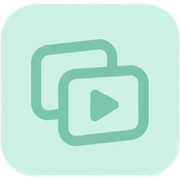
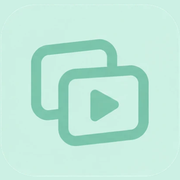
fix(web): address review findings in the Emergence restyle
- Scroll a new error into view and show "Needs attention" in the
  masthead, so failed actions far down the single column are visible.
- Film: hide the Play overlay and show native controls when the video
  cannot be decoded; start playback at 0 despite the poster fragment;
  keep keyboard focus on the player after Play.
- Masthead: three-column grid (nav, centred project label, state and
  logo) so the label no longer overlaps the nav at 1180-1366px.
- Let landscape films run full width on phones; stronger scrim and an
  inset focus ring for the Play button; field borders at 3:1 against
  the page; reduced motion also covers pseudo-elements; spaces between
  kicker labels and text for screen readers.
- Opaque, edge-to-edge Apple touch icon.
- Docs: anchor for the Web design section and a pointer from the team
  visual spec to the approved palette.

Claude-Session: https://claude.ai/code/session_01SGkcHMc6j9QZ8o8jhosP5c

Changed region(s): [[0.0, 0.0, 1.0, 1.0]]

diff --git a/frontend/src/main.tsx b/frontend/src/main.tsx
@@ -26,16 +26,24 @@ async function request<T>(url: string, options?: RequestInit): Promise<T> {
 function Film({ src, onError }: { src: string; onError: () => void }) {
   const video = useRef<HTMLVideoElement>(null);
   const [started, setStarted] = useState(false);
+  const [failed, setFailed] = useState(false);
+
+  // Keep keyboard focus on the player once the overlay button disappears.
+  useEffect(() => { if (started) video.current?.focus({ preventScroll: true }); }, [started]);
 
   function play() {
     setStarted(true);
-    video.current?.play().catch(() => undefined);
+    const element = video.current;
+    if (!element) return;
+    element.currentTime = 0;
+    element.play().catch(() => undefined);
   }
 
   // The media fragment asks Safari to paint the first frame as a poster; the request itself is unchanged.
   return <div className={'film' + (started ? ' is-playing' : '')}>
-    <video ref={video} src={src + '#t=0.1'} preload="metadata" playsInline controls={started} onError={onError}/>
-    {!started && <button className="play" onClick={play} aria-label="Play your film">
+    <video ref={video} src={src + '#t=0.1'} preload="metadata" playsInline controls={started || failed} aria-label="Your film"
+      onError={() => { setFailed(true); onError(); }}/>
+    {!started && !failed && <button className="play" onClick={play} aria-label="Play your film">
       <span className="play-ring" aria-hidden="true"><svg viewBox="0 0 24 24"><path d="M9 6.5v11l8.5-5.5z"/></svg></span>
       <span className="play-label">Play</span>
     </button>}
@@ -59,6 +67,7 @@ function App() {
   const [dragging, setDragging] = useState(false);
   const fileInput = useRef<HTMLInputElement>(null);
   const progress = useRef<HTMLSpanElement>(null);
+  const alertBox = useRef<HTMLDivElement>(null);
   const active = project?.job?.status === 'queued' || project?.job?.status === 'running';
 
   useEffect(() => {
@@ -81,6 +90,9 @@ function App() {
     }, 1500);
     return () => { cancelled = true; window.clearInterval(timer); };
   }, [project?.name, active]);
+
+  // Actions sit far below the status area in the single-column layout, so show a new error where it is.
+  useEffect(() => { if (error) alertBox.current?.scrollIntoView({ block: 'center' }); }, [error]);
 
   // Reading progress, as in the masthead of a long-form feature.
   useEffect(() => {
@@ -139,17 +151,20 @@ function App() {
 
   const footage = project ? Math.round(project.clips.reduce((sum, clip) => sum + clip.duration, 0)) : 0;
   const version = project?.latest?.cut.replace('cut_', 'Version ') || null;
-  const state = active ? 'Working' : project?.job?.status === 'failed' ? 'Needs attention' : project?.latest ? 'Film ready' : project ? 'Clips imported' : 'Ready';
+  const failed = !!error || project?.job?.status === 'failed';
+  const state = active ? 'Working' : failed ? 'Needs attention' : project?.latest ? 'Film ready' : project ? 'Clips imported' : 'Ready';
 
   return <>
     <header className="masthead">
-      <a className="brand" href="/" aria-label="Vlogii home"><img src="/brand/vlogii-logo.png" alt="vlogii" width="118" height="32"/></a>
       <nav className="sections" aria-label="Sections">
         <a href="#film">Film</a><a href="#moments">Moments</a><a href="#direction">Direction</a>
         {project?.latest && <><span className="divider" aria-hidden="true"/><a href="#edit">Make it yours</a></>}
       </nav>
-      <p className="feature">{project ? <><span className="kicker">Project</span><b>{project.name}</b>{version && <span className="feature-version"> | {version}</span>}</> : <span className="kicker">Local studio</span>}</p>
-      <p className={'state' + (active ? ' working' : '') + (project?.job?.status === 'failed' ? ' failed' : '')}><span className="state-dot" aria-hidden="true"/>{state}</p>
+      <p className="feature">{project ? <><span className="kicker">Project</span>{' '}<b>{project.name}</b>{version && <span className="feature-version"> | {version}</span>}</> : <span className="kicker">Local studio</span>}</p>
+      <div className="mast-end">
+        <p className={'state' + (active ? ' working' : '') + (failed ? ' failed' : '')}><span className="state-dot" aria-hidden="true"/>{state}</p>
+        <a className="brand" href="/" aria-label="Vlogii home"><img src="/brand/vlogii-logo.png" alt="vlogii" width="118" height="32"/></a>
+      </div>
       <span className="read" ref={progress} aria-hidden="true"/>
     </header>
 
@@ -171,13 +186,13 @@ function App() {
           </div>}
       </section>
       <div className="caption">
-        <p><span className="kicker">{version || 'A clean slate'}</span>{project?.latest ? `${project.duration_seconds?.toFixed(1) || '—'} seconds · Ready for a closer look.` : 'A few moments. A little meaning.'}</p>
+        <p><span className="kicker">{version || 'A clean slate'}</span>{' '}{project?.latest ? `${project.duration_seconds?.toFixed(1) || '—'} seconds · Ready for a closer look.` : 'A few moments. A little meaning.'}</p>
         {project?.video_url && <a className="caps-link" href={project.video_url + '?download=true'}>Download MP4 ↓</a>}
       </div>
 
       <div className="column">
         <p aria-live="polite" className={'status' + (active ? ' working' : '')}><span className="state-dot" aria-hidden="true"/>{project?.job?.message || 'Import your clips to begin.'}</p>
-        {(error || project?.job?.error) && <div role="alert" className="alert"><span className="kicker">Needs attention</span>{error || project?.job?.error}</div>}
+        {(error || project?.job?.error) && <div role="alert" ref={alertBox} className="alert"><span className="kicker">Needs attention</span>{error || project?.job?.error}</div>}
 
         <p className="lede"><span className="lead-in">Turn the clips</span> on your phone into a small story. Your moments, your words, your rhythm.</p>
 

diff --git a/frontend/src/style.css b/frontend/src/style.css
@@ -6,7 +6,7 @@
 :root{
   /* vlogii fresh palette: light base for large areas, mint for emphasis, light yellow only as small accents */
   --paper:#F8FBF7;--surface:#FFFFFF;--film:#1E302A;
-  --ink:#355A50;--ink-strong:#244038;--ink-2:#5B776E;--line:rgba(53,90,80,.16);--field:#7F9990;
+  --ink:#355A50;--ink-strong:#244038;--ink-2:#5B776E;--line:rgba(53,90,80,.16);--field:#7A948B;
   --mint:#8CCFB8;--mint-deep:#76C0A6;--blue:#C7DFF0;--green:#DDEBD5;--yellow:#F7EDB8;
   --danger:#A0362A;--danger-bg:#FBEAE6;
   --serif:"Newsreader","Songti SC","Noto Serif CJK SC",Georgia,"Times New Roman",serif;
@@ -33,17 +33,18 @@ a{color:var(--ink)}
 
 /* Masthead */
 .masthead{position:fixed;inset:0 0 auto;z-index:20;height:var(--masthead);display:flex;align-items:center;gap:28px;padding:0 var(--gutter);background:var(--surface);font-family:var(--sans);letter-spacing:.1px}
-.brand{display:flex;flex:none;border-radius:6px}
+.mast-end{flex:1;display:flex;align-items:center;justify-content:space-between;gap:20px;min-width:0}
+.brand{display:flex;flex:none;order:-1;border-radius:6px}
 .brand img{display:block;height:28px;width:auto}
 .sections{display:none;align-items:center;gap:22px;font-size:16px;font-weight:400}
 .sections a{color:var(--ink);text-decoration:none;padding:8px 0;text-underline-offset:6px;text-decoration-thickness:2px;text-decoration-color:var(--mint)}
 .sections a:hover{text-decoration-line:underline}
 .divider{width:1px;height:20px;background:var(--line)}
-.feature{display:none;position:absolute;left:50%;transform:translateX(-50%);margin:0;max-width:34vw;white-space:nowrap;overflow:hidden;text-overflow:ellipsis;font-size:13px}
+.feature{display:none;margin:0;min-width:0;max-width:min(34vw,460px);white-space:nowrap;overflow:hidden;text-overflow:ellipsis;text-align:center;font-size:13px}
 .feature .kicker{margin-right:12px;font-size:11px;letter-spacing:2px}
 .feature b{font-weight:700}
 .feature-version{color:var(--ink-2)}
-.state{margin:0 0 0 auto;display:flex;align-items:center;gap:8px;font-size:13px;font-weight:500;color:var(--ink-2);white-space:nowrap}
+.state{margin:0;display:flex;align-items:center;gap:8px;font-size:13px;font-weight:500;color:var(--ink-2);white-space:nowrap}
 .state.working{color:var(--ink)}
 .state-dot{width:8px;height:8px;border-radius:50%;background:var(--mint);flex:none}
 .working .state-dot{animation:pulse 1.5s ease-in-out infinite}
@@ -51,7 +52,15 @@ a{color:var(--ink)}
 @keyframes pulse{50%{opacity:.3}}
 .read{position:absolute;left:0;right:0;bottom:-2px;height:2px;background:var(--green)}
 .read::after{content:"";position:absolute;inset:0;background:var(--mint);transform-origin:left;transform:scaleX(var(--read,0))}
-@media(min-width:760px){.sections{display:flex}.brand img{height:32px}}
+/* Nav left, label centred, state and logo right, as in the feature masthead; phones keep the logo left. */
+@media(min-width:760px){
+  .masthead{display:grid;grid-template-columns:minmax(max-content,1fr) minmax(0,auto) minmax(max-content,1fr);gap:24px}
+  .sections{display:flex;grid-column:1}
+  .feature{grid-column:2}
+  .mast-end{grid-column:3;justify-self:end;flex:none;justify-content:flex-end}
+  .brand{order:0}
+  .brand img{height:32px}
+}
 @media(min-width:1180px){.feature{display:block}}
 
 /* Titles */
@@ -71,13 +80,13 @@ h1 span{display:block}
 .band-empty h2{margin:0;font-weight:500;font-size:30px;line-height:36px}
 .band-empty p{margin:4px 0 6px;font:400 14px/1.5 var(--sans);color:var(--ink);letter-spacing:.1px}
 .film{position:relative;width:fit-content;max-width:100%;margin:0 auto}
-.film video{display:block;width:auto;height:auto;max-width:100%;max-height:calc(100svh - var(--masthead) - 32px);min-height:240px;margin:0 auto;background:var(--film)}
-.play{position:absolute;inset:0;display:flex;align-items:flex-end;gap:14px;padding:24px 28px;border:0;background:linear-gradient(to top,rgba(0,0,0,.42),rgba(0,0,0,0) 45%);color:#fff;font:500 19px/26px var(--sans);letter-spacing:.1px;text-align:left}
+.film video{display:block;width:auto;height:auto;max-width:100%;max-height:max(240px,calc(100svh - var(--masthead) - 32px));margin:0 auto;background:var(--film)}
+.play{position:absolute;inset:0;display:flex;align-items:flex-end;gap:14px;padding:24px 28px;border:0;background:linear-gradient(to top,rgba(0,0,0,.6),rgba(0,0,0,.52) 112px,rgba(0,0,0,0) 60%);color:#fff;font:500 19px/26px var(--sans);letter-spacing:.1px;text-align:left}
 .play-label{line-height:52px}
 .play-ring{display:grid;place-items:center;width:52px;height:52px;border-radius:50%;border:1.5px solid rgba(255,255,255,.9);transition:background-color .3s}
 .play-ring svg{width:22px;height:22px;fill:#fff}
 .play:hover .play-ring{background:rgba(255,255,255,.16)}
-.play:focus-visible{outline:2px solid #fff;outline-offset:-6px}
+.play:focus-visible{outline:2px solid #fff;outline-offset:-6px;box-shadow:inset 0 0 0 4px var(--ink-strong)}
 .caption{max-width:calc(var(--measure) + 2 * var(--gutter));margin:0 auto;padding:12px var(--gutter) 0;display:flex;flex-wrap:wrap;align-items:baseline;justify-content:space-between;gap:4px 16px;font:400 13px/1.5 var(--sans);color:var(--ink-2);letter-spacing:.1px}
 .caption p{margin:0}
 .caption .kicker{margin-right:10px}
@@ -156,4 +165,4 @@ details>.field,details>.note,details>.check{margin-top:8px}
 .colophon p{margin:0;font-style:italic;font-size:17px;line-height:22px}
 .colophon .kicker{margin-left:auto}
 
-@media(prefers-reduced-motion:reduce){.working .state-dot{animation:none}*{transition-duration:.01ms!important}}
+@media(prefers-reduced-motion:reduce){.working .state-dot{animation:none}*,*::before,*::after{transition-duration:.01ms!important}}

diff --git a/docs/vlogii-guide.md b/docs/vlogii-guide.md
@@ -86,11 +86,13 @@ frontend/         React + TypeScript + Vite editor
 tests/           Validation, failure recovery, API and real-media checks
 ```
 
+<a id="web-design"></a>
+
 ## Web design
 
 The editor follows the layout of Emergence Magazine's long-form features: a thin white masthead with a reading-progress rule, a centred serif title block, one 684 px reading column, the film shown full width on a dark band with a quiet circular Play button, centred chapter breaks and one wide pull quote. Interface text is set in a sans serif, reading text in a serif.
 
-- Palette (vlogii fresh palette): large areas use the light base `#F8FBF7`; mint `#8CCFB8` is the primary emphasis (buttons, progress rule, status dots); light blue `#C7DFF0` and light green `#DDEBD5` are supporting surfaces (empty film band, upload area, notes, focus halo); light yellow `#F7EDB8` appears only as small accents (upload icon, pull-quote rule, text selection). Text is deep grey-green `#355A50`. For WCAG AA, button labels on mint use the darker `#244038`, secondary text uses `#5B776E` on light surfaces only, and field borders use `#7F9990`.
+- Palette (vlogii fresh palette): large areas use the light base `#F8FBF7`; mint `#8CCFB8` is the primary emphasis (buttons, progress rule, status dots); light blue `#C7DFF0` and light green `#DDEBD5` are supporting surfaces (empty film band, upload area, notes, focus halo); light yellow `#F7EDB8` appears only as small accents (upload icon, pull-quote rule, text selection). Text is deep grey-green `#355A50`. For WCAG AA, button labels on mint use the darker `#244038`, secondary text uses `#5B776E` on light surfaces only, and field borders use `#7A948B`.
 - Logo: the approved vlogii lockup and tile live in `frontend/public/brand/` (lockup, 32/180/512 px tiles and an opaque Apple touch icon).
 - Type: Newsreader, Libre Franklin and Courier Prime (all SIL Open Font License) are bundled through `@fontsource` packages, so the browser makes no font requests to third parties. Emergence's own typefaces are commercial and are not used.
 - The design covers the web UI only. Captions and titles burned into exported MP4 files are unchanged.

diff --git a/docs/visual-design.md b/docs/visual-design.md
@@ -53,6 +53,8 @@ Turn everyday clips into a film worth keeping.
 
 ### 一套可以直接采用的设计参数
 
+> 2026-10-10 更新：Vlogii 网页界面已改用用户确认的 vlogii 清新配色（底色 #F8FBF7、薄荷绿 #8CCFB8 为主、浅蓝 #C7DFF0 与浅绿 #DDEBD5 辅助、浅黄 #F7EDB8 少量点缀、文字 #355A50）、定稿 logo 与 Emergence 式单栏长文布局，以 [Vlogii 指南的 Web design](vlogii-guide.md#web-design) 为准。下表的陶土色、Inter 与双栏布局仅作原比赛方案参考；导出 MP4 的标题与字幕样式不变。
+
 | 项目 | 建议 |
 | --- | --- |
 | 页面背景 | `#F6F3EE` 暖白 |
